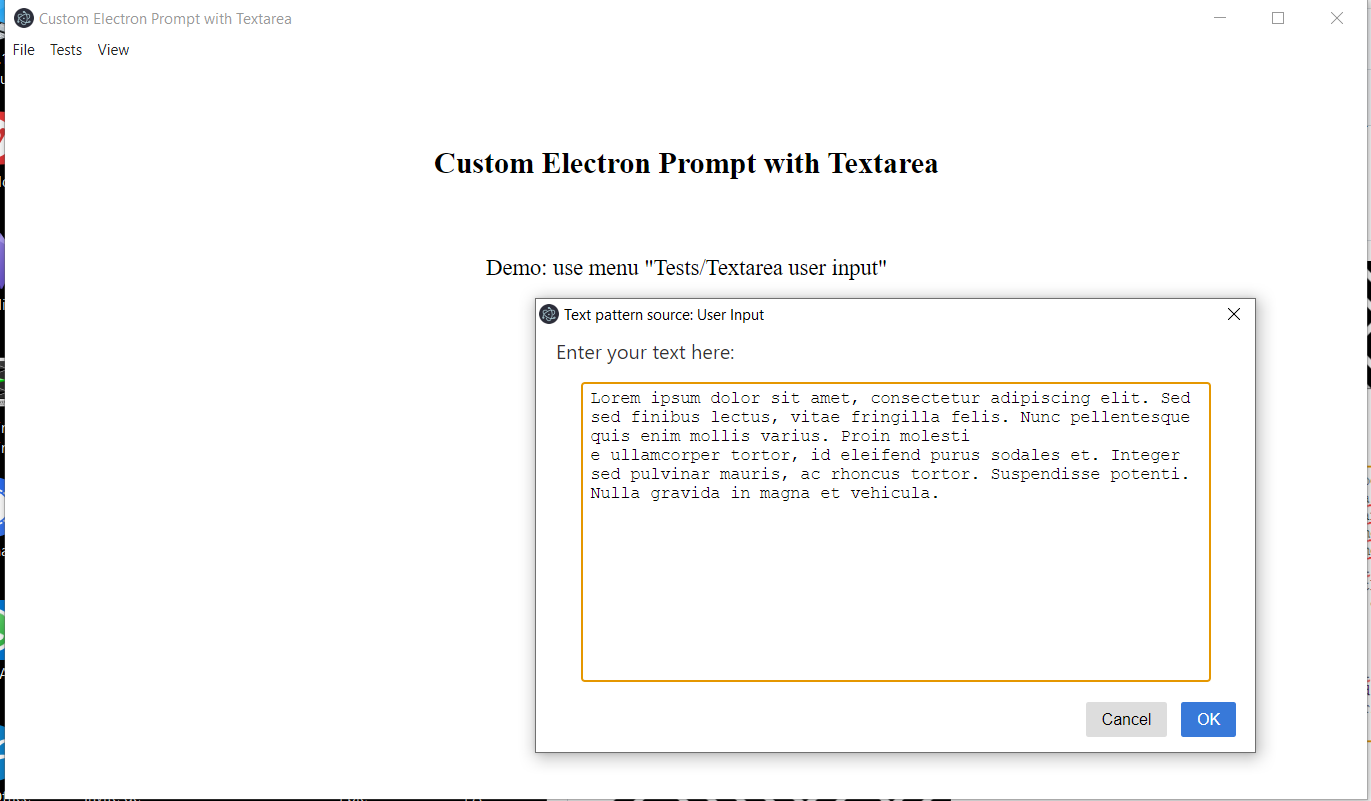
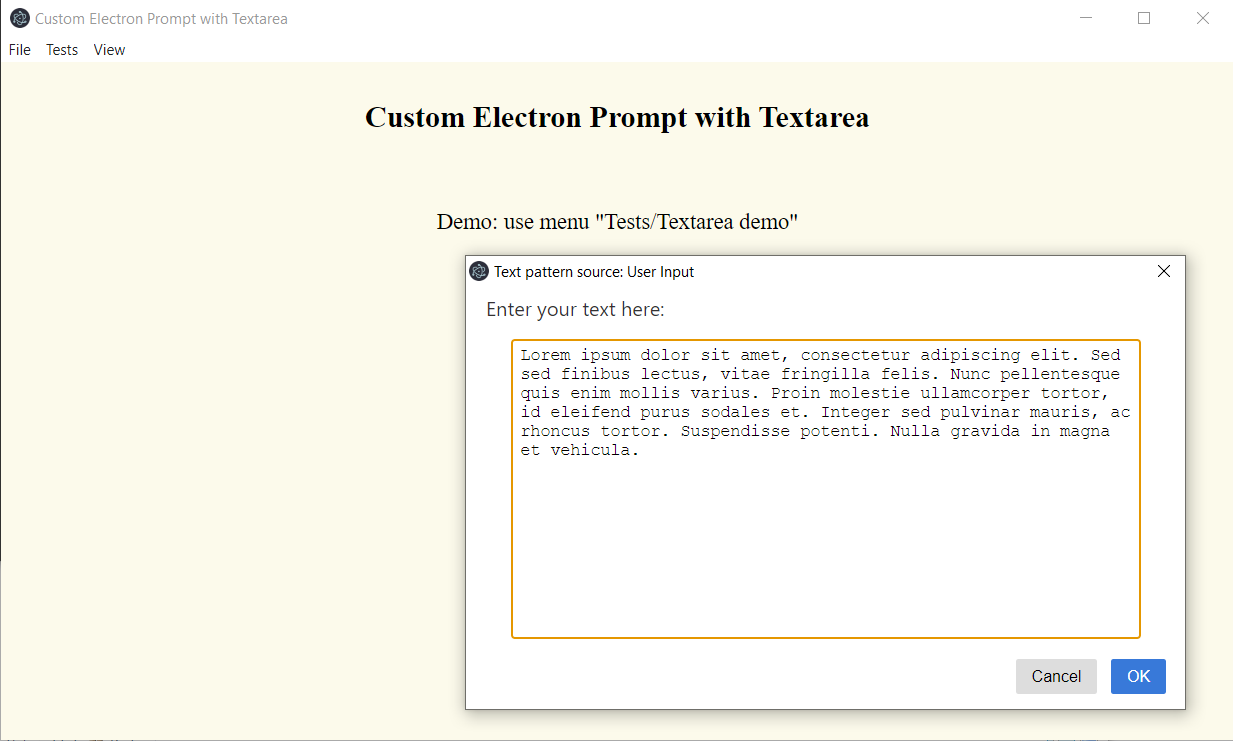
new screenshot

Changed region(s): [[0.0, 0.0, 1.0, 1.0], [0.3082, 0.1242, 0.7088, 0.2173], [0.0, 0.0, 0.2157, 0.6208]]

diff --git a/example/textarea/index.html b/example/textarea/index.html
@@ -5,12 +5,12 @@
 	<link rel="stylesheet" type="text/css" href="css/sweetalert2.css">
     <meta charset="utf-8"/>
   </head>
-  <body class='app'>
+  <body class='app' style="background-color:#FCFAEB;">
     <table style="margin-left: auto; margin-right: auto;"> 
-    <tr><td align="center"><br><br><h2>Custom Electron Prompt with Textarea<h2></td>
+    <tr><td align="center"><h2>Custom Electron Prompt with Textarea<h2></td>
 	</tr>
 	<tr><td align="center">
-	   <br><font size="4"><p>Demo: use menu "Tests/Textarea user input"<p></font>
+	   <br><font size="4"><p>Demo: use menu "Tests/Textarea demo"<p></font>
 	   </td>
 	</tr>
     </table> 	
